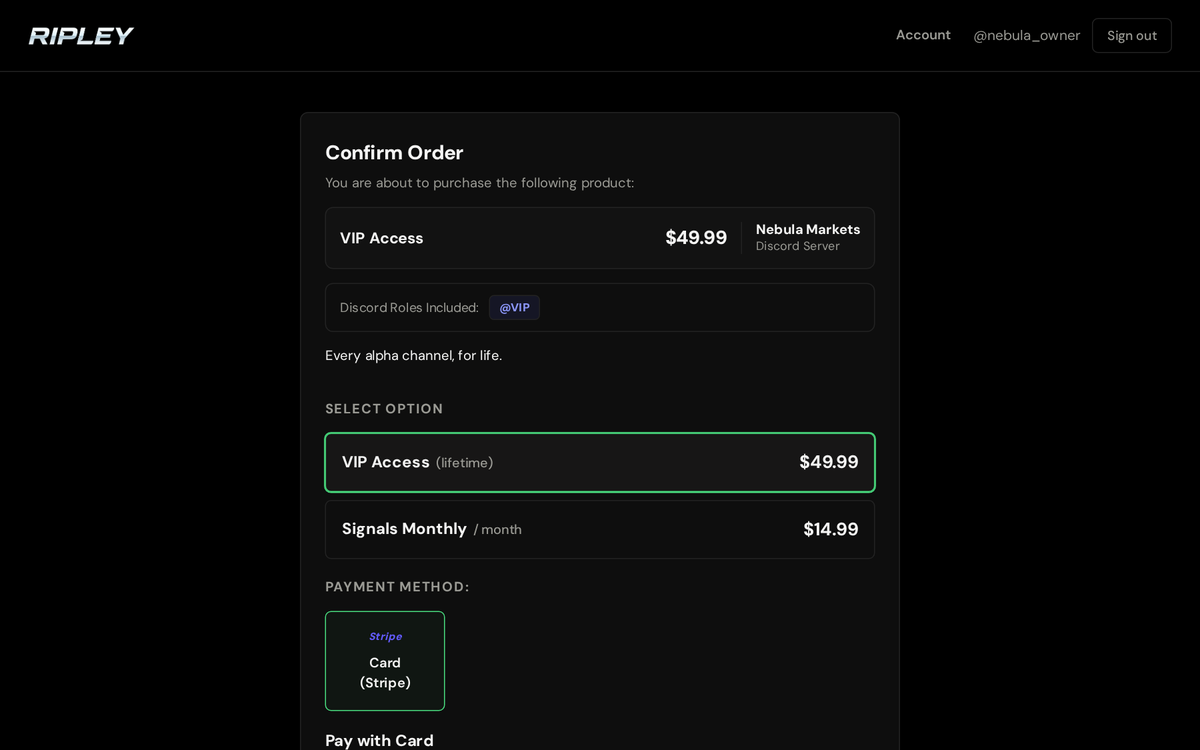
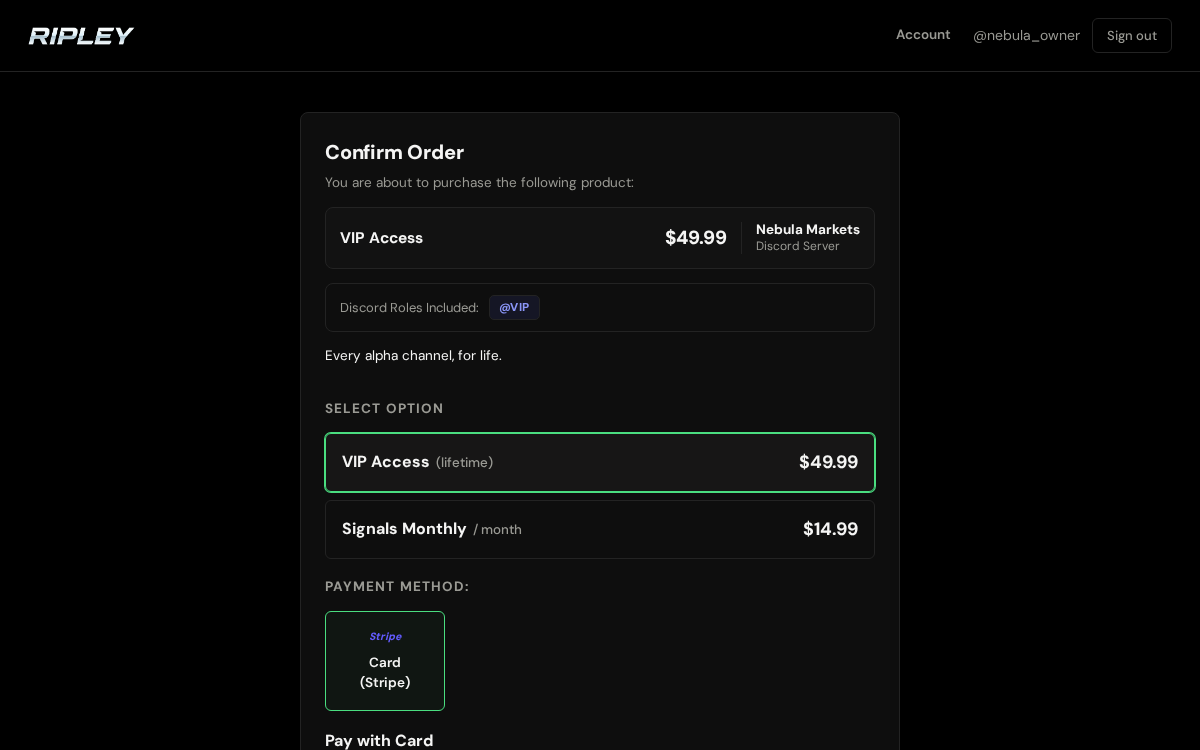
Root store links, membership-activated email, fresh feature screenshots
Store links now live at the domain root — ripleybot.com/<slug> — via a
catch-all rewrite (legacy /s/ paths keep working). Platform paths are
reserved so no store can claim them; onboarding and the dashboard block
them and every generated checkout/store link uses the root form.

The Resend confirmation is redesigned as a clean activation notice:
'Your <server> membership is active' with a green check header, details
table and a flat Manage Membership button.

Homepage feature screenshots retaken from the current UI (old captures
showed the removed Avg Order stat), shot imgs cache-busted, all assets
bumped to v=19.

Claude-Session: https://claude.ai/code/session_01Vxwz97AdnQQxpbAGeSFrmV

diff --git a/discord-paygate/src/lib/email.js b/discord-paygate/src/lib/email.js
@@ -18,7 +18,7 @@ export async function receiptFrom() {
   return (
     process.env.RECEIPT_FROM ||
     (await getAppSecret('receipt_from').catch(() => null)) ||
-    'Ripley Receipts <onboarding@resend.dev>'
+    'Ripley <onboarding@resend.dev>'
   );
 }
 
@@ -28,33 +28,41 @@ export function receiptHtml({ storeName, planName, amountUsd, lifetime, discordU
   const amount = `$${Number(amountUsd).toFixed(2)} USD`;
   const row = (k, v) => `
     <tr>
-      <td style="padding:8px 0;color:#8a8f98;font-size:13px;">${esc(k)}</td>
-      <td style="padding:8px 0;color:#0b0b0c;font-size:13px;font-weight:600;text-align:right;">${esc(v)}</td>
+      <td style="padding:9px 0;color:#8a8f98;font-size:13px;border-bottom:1px solid #eef0f3;">${esc(k)}</td>
+      <td style="padding:9px 0;color:#0b0b0c;font-size:13px;font-weight:600;text-align:right;border-bottom:1px solid #eef0f3;">${esc(v)}</td>
     </tr>`;
   return `
-  <div style="background:#f4f5f7;padding:32px 16px;font-family:-apple-system,'Segoe UI',Roboto,Helvetica,Arial,sans-serif;">
-    <div style="max-width:460px;margin:0 auto;background:#ffffff;border-radius:14px;padding:28px;border:1px solid #e6e8ec;">
-      <p style="margin:0 0 4px;font-size:12px;letter-spacing:0.14em;text-transform:uppercase;color:#8a8f98;font-weight:700;">Receipt</p>
-      <h1 style="margin:0 0 18px;font-size:20px;color:#0b0b0c;">${esc(storeName)}</h1>
-      <p style="margin:0 0 18px;font-size:14px;color:#3f4450;line-height:1.6;">
-        Thanks for your purchase — your access has been delivered to
-        <strong>@${esc(discordUsername ?? 'your Discord account')}</strong>.
+  <div style="background:#f4f5f7;padding:36px 16px;font-family:-apple-system,'Segoe UI',Roboto,Helvetica,Arial,sans-serif;">
+    <div style="max-width:460px;margin:0 auto;background:#ffffff;border-radius:8px;padding:32px;border:1px solid #e6e8ec;">
+      <table role="presentation" style="border-collapse:collapse;margin:0 0 14px;"><tr>
+        <td style="width:34px;height:34px;background:#e9f9ef;border:1px solid #bfeccd;border-radius:6px;text-align:center;vertical-align:middle;color:#16a34a;font-size:17px;font-weight:700;line-height:34px;">&#10003;</td>
+        <td style="padding-left:12px;">
+          <span style="display:block;font-size:11px;letter-spacing:0.12em;text-transform:uppercase;color:#16a34a;font-weight:800;">Membership Activated</span>
+        </td>
+      </tr></table>
+      <h1 style="margin:0 0 10px;font-size:21px;line-height:1.3;color:#0b0b0c;">Your ${esc(storeName)} membership is active</h1>
+      <p style="margin:0 0 20px;font-size:14px;color:#3f4450;line-height:1.65;">
+        <strong>${esc(planName)}</strong> is live on
+        <strong>@${esc(discordUsername ?? 'your Discord account')}</strong> — your roles have been
+        delivered and every members-only channel is now open to you.
       </p>
-      <table style="width:100%;border-collapse:collapse;border-top:1px solid #e6e8ec;">
-        ${row('Product', planName)}
-        ${row('Access', lifetime ? 'Lifetime — never expires' : 'Subscription')}
-        ${row('Amount', amount)}
+      <table style="width:100%;border-collapse:collapse;border-top:1px solid #eef0f3;">
+        ${row('Server', storeName)}
+        ${row('Membership', planName)}
+        ${row('Access', lifetime ? 'Lifetime — never expires' : 'Renews monthly')}
+        ${row('Amount paid', amount)}
         ${row('Date', dateIso)}
         ${row('Reference', reference)}
       </table>
-      <div style="border-top:1px solid #e6e8ec;margin-top:6px;padding-top:16px;">
+      <div style="margin-top:20px;">
         <a href="${esc(config.publicBaseUrl)}/account"
-           style="display:inline-block;background:#0b0b0c;color:#ffffff;text-decoration:none;font-size:13px;font-weight:600;padding:10px 18px;border-radius:999px;">
-          Manage your access
+           style="display:inline-block;background:#0b0b0c;color:#ffffff;text-decoration:none;font-size:13px;font-weight:600;padding:11px 20px;border-radius:6px;">
+          Manage Membership
         </a>
       </div>
-      <p style="margin:18px 0 0;font-size:11.5px;color:#8a8f98;">
+      <p style="margin:20px 0 0;font-size:11.5px;color:#8a8f98;line-height:1.6;">
         Payment processed by Stripe. Sent by Ripley on behalf of ${esc(storeName)}.
+        If anything looks wrong, reply to this email.
       </p>
     </div>
   </div>`;
@@ -72,7 +80,7 @@ export async function sendReceiptEmail({ to, storeName, planName, amountUsd, lif
       body: JSON.stringify({
         from: await receiptFrom(),
         to: [to],
-        subject: `Your ${storeName} receipt — ${planName}`,
+        subject: `Your ${storeName} membership is active`,
         html: receiptHtml({
           storeName,
           planName,

diff --git a/discord-paygate/scripts/e2e-test.js b/discord-paygate/scripts/e2e-test.js
@@ -647,9 +647,13 @@ test('storefront serves the tenant-generic checkout, plans API exposes capabilit
     'an animated guild icon must surface as the .gif CDN url',
   );
   assert.equal(server.name, 'Tradeleaks', 'server name must come from the live guild lookup, never a placeholder');
-  // The internal diagnostics page is gone — tenants never see platform plumbing.
+  // The internal diagnostics page is gone — tenants never see platform
+  // plumbing. Its old path now falls through to the storefront shell like any
+  // other unclaimed slug ('diagnostics' is reserved, so no store can claim it).
   const diagPage = await fetch(`${appUrl}/diagnostics`);
-  assert.equal(diagPage.status, 404, 'the diagnostics page must not exist on the tenant-facing site');
+  const diagBody = await diagPage.text();
+  assert.doesNotMatch(diagBody, /Setup diagnostics/, 'the diagnostics tool must be gone');
+  assert.match(diagBody, /Confirm Order/, 'unclaimed slugs serve the storefront shell');
   assert.deepEqual(Object.keys(plans[0]).sort(), ['description', 'descriptionHighlight', 'id', 'imageUrl', 'interval', 'lifetime', 'name', 'priceUsd', 'roleNames']);
 });
 
@@ -1529,7 +1533,10 @@ test('multi-tenant: a second owner onboards their server end-to-end and sells th
   assert.equal(live.status, 200);
   assert.equal((await live.json()).store.status, 'live');
 
-  // The slug storefront serves, and its plans API shows the tenant catalog.
+  // The slug storefront serves at the root (and the legacy /s/ path), and its
+  // plans API shows the tenant catalog.
+  assert.equal((await fetch(`${appUrl}/vip-signals`)).status, 200);
+  assert.match(await (await fetch(`${appUrl}/vip-signals`)).text(), /Confirm Order/, 'root slug serves the storefront');
   assert.equal((await fetch(`${appUrl}/s/vip-signals`)).status, 200);
   const tenantPlans = await (await fetch(`${appUrl}/api/plans?store=vip-signals`)).json();
   assert.equal(tenantPlans.server.guildId, G2);
@@ -1548,7 +1555,7 @@ test('multi-tenant: a second owner onboards their server end-to-end and sells th
     redirect: 'manual',
     headers: { cookie: sc8 },
   });
-  assert.equal(cb8.headers.get('location'), `/s/vip-signals?plan=${plan.planKey}`, 'buyer lands back on the tenant store');
+  assert.equal(cb8.headers.get('location'), `/vip-signals?plan=${plan.planKey}`, 'buyer lands back on the tenant store');
   const u8Cookie = cb8.headers.getSetCookie().find((c) => c.startsWith('tl_session=')).split(';')[0];
 
   const co = await fetch(`${appUrl}/api/checkout/stripe`, {
@@ -1833,7 +1840,7 @@ test('products managed in-site: edit/toggle/limit/success-url/lazy price/discoun
   assert.equal(list0.products.length, 1);
   const vip = list0.products[0];
   assert.ok(vip.buyers >= 10, `buyers counted (got ${vip.buyers})`);
-  assert.match(vip.checkoutUrl, /\/s\/vip-signals\?plan=/);
+  assert.match(vip.checkoutUrl, /\.e2e\/vip-signals\?plan=/, 'checkout links use the root store URL');
 
   // Deactivate → hidden from buyers and refused at checkout; reactivate heals.
   assert.equal((await onboard({ step: 'product-update', storeId, planKey: vip.planKey, active: false })).status, 200);
@@ -1917,7 +1924,11 @@ test('products managed in-site: edit/toggle/limit/success-url/lazy price/discoun
   const pub = await (await fetch(`${appUrl}/api/plans?store=vip-signals`)).json();
   assert.equal(pub.brand, 'VIP Signals Pro');
   assert.equal(pub.store.description, 'The alpha desk.');
-  // Custom link: new slug serves, the old one 404s, then restore.
+  // Custom link: platform paths can never be claimed as store links.
+  for (const bad of ['dashboard', 'api', 'store', 'diagnostics']) {
+    assert.equal((await storeCall({ slug: bad })).status, 409, `reserved slug "${bad}" must be refused`);
+  }
+  // New slug serves, the old one 404s, then restore.
   assert.equal((await storeCall({ slug: 'vip-elite' })).status, 200);
   assert.equal((await fetch(`${appUrl}/api/plans?store=vip-elite`)).status, 200);
   assert.equal((await fetch(`${appUrl}/api/plans?store=vip-signals`)).status, 404);

diff --git a/discord-paygate/public/index.html b/discord-paygate/public/index.html
@@ -16,7 +16,7 @@
   <meta name="twitter:image" content="https://ripleybot.com/shot-dashboard.png" />
   <link rel="icon" type="image/png" href="/favicon.png" />
   <link rel="apple-touch-icon" href="/favicon.png" />
-  <link rel="stylesheet" href="/styles.css?v=18" />
+  <link rel="stylesheet" href="/styles.css?v=19" />
 </head>
 <body class="home">
   <header class="top xoe-nav">
@@ -61,7 +61,7 @@
              browser with no codec negotiation, autoplay policy, range requests
              or JS in the way. home.js swaps in the real <video> only after the
              browser has proven it can actually play it. -->
-        <img class="hero-video" id="hero-media" src="/hero-demo.webp?v=18" width="1280" height="800"
+        <img class="hero-video" id="hero-media" src="/hero-demo.webp?v=19" width="1280" height="800"
           alt="Ripley product tour: live analytics with period comparison, products, members and the checkout" />
       </div>
     </section>
@@ -156,7 +156,7 @@
         </div>
         <div class="frow-visual">
           <div class="glow glow-side" aria-hidden="true"></div>
-          <div class="shot-frame"><img src="/shot-store.png" alt="A Ripley storefront with product, price and card checkout" width="1200" height="750" loading="lazy" /></div>
+          <div class="shot-frame"><img src="/shot-store.png?v=19" alt="A Ripley storefront with product, price and card checkout" width="1200" height="750" loading="lazy" /></div>
         </div>
       </div>
     </section>
@@ -196,7 +196,7 @@
         </div>
         <div class="frow-visual">
           <div class="glow glow-side" aria-hidden="true"></div>
-          <div class="shot-frame"><img src="/shot-members.png" alt="Member management: revoke, add and re-sync members" width="1400" height="817" loading="lazy" /></div>
+          <div class="shot-frame"><img src="/shot-members.png?v=19" alt="Member management: revoke, add and re-sync members" width="1400" height="817" loading="lazy" /></div>
         </div>
       </div>
     </section>
@@ -381,6 +381,6 @@
     <p class="footer-disclaimer">Not affiliated with Discord Inc. Payments are processed by Stripe on each store owner’s own account.</p>
   </footer>
 
-  <script src="/home.js?v=18"></script>
+  <script src="/home.js?v=19"></script>
 </body>
 </html>

diff --git a/discord-paygate/public/dashboard.js b/discord-paygate/public/dashboard.js
@@ -421,7 +421,7 @@ function renderSetupStep(g, step) {
 }
 
 function renderLive(g, slug) {
-  const link = `${location.origin}/s/${slug}`;
+  const link = `${location.origin}/${slug}`;
   wizShell(g, 4, `
     <div class="wiz-done">
       <span class="done-ring">${I.check}</span>
@@ -1037,7 +1037,7 @@ function sectionStore(store, link) {
       body: `
         ${linkRow}
         <label class="field"><span class="field-label">Custom link</span>
-          <div class="slug-row"><span class="slug-prefix">${esc(location.origin)}/s/</span><input id="st-slug" type="text" maxlength="40" value="${esc(store.slug)}" spellcheck="false" /></div>
+          <div class="slug-row"><span class="slug-prefix">${esc(location.origin)}/</span><input id="st-slug" type="text" maxlength="40" value="${esc(store.slug)}" spellcheck="false" /></div>
           <span class="field-help">Changing the link breaks the old one immediately.</span></label>
         <p class="field-err" id="err-slug" role="alert"></p>`,
       foot: `<button class="btn-secondary" id="st-slug-save">Update link</button>`,
@@ -1108,7 +1108,7 @@ async function viewStore(slug) {
     return;
   }
   const store = data.stores.find((s) => s.slug === slug) ?? data.stores[0];
-  const link = store.isDefault ? `${location.origin}/store` : `${location.origin}/s/${store.slug}`;
+  const link = store.isDefault ? `${location.origin}/store` : `${location.origin}/${store.slug}`;
   const section = location.hash.split('/')[3] ?? 'overview';
   const isPlatformOwner = Boolean(state.me?.isOwner);
 
@@ -1629,7 +1629,7 @@ function wireStoreSettings(store, slug) {
     const slugNew = $('#st-slug').value.trim().toLowerCase();
     fieldErr('slug', '');
     if (slugNew === store.slug) return;
-    if (!confirm(`Change your store link to ${location.origin}/s/${slugNew}?\n\nThe old link stops working immediately.`)) return;
+    if (!confirm(`Change your store link to ${location.origin}/${slugNew}?\n\nThe old link stops working immediately.`)) return;
     btn.disabled = true;
     btn.textContent = 'Updating…';
     try {

diff --git a/discord-paygate/api/onboard.js b/discord-paygate/api/onboard.js
@@ -6,7 +6,7 @@ import { sealSecret } from '../src/lib/secretbox.js';
 import { getUser } from '../src/db.js';
 import { getUserGuilds, getGuild, getGuildRoles, getBotUser, getGuildMember } from '../src/lib/discord.js';
 import { stripeFetch, createWebhookEndpoint, canonicalWebhookUrl, invalidatePriceCache } from '../src/lib/stripe.js';
-import { storeByGuild, storeBySlug, slugify, plansOf } from '../src/services/stores.js';
+import { storeByGuild, storeBySlug, slugify, isReservedSlug, plansOf } from '../src/services/stores.js';
 
 const ADMINISTRATOR = 1n << 3n;
 const MANAGE_GUILD = 1n << 5n;
@@ -90,7 +90,7 @@ export default guard(async function handler(req, res) {
       }
 
       let slug = slugify(name);
-      if (slug === 'store' || (await db.getStoreBySlug(slug))) {
+      if (isReservedSlug(slug) || (await db.getStoreBySlug(slug))) {
         slug = `${slug}-${guildId.slice(-4)}`;
         if (await db.getStoreBySlug(slug)) return sendJson(res, 409, { error: 'Try a different store name.' });
       }
@@ -247,7 +247,7 @@ export default guard(async function handler(req, res) {
       const plans = await db.storePlansFor(row.id);
       const out = [];
       for (const p of plans) {
-        out.push({ ...p, buyers: await db.countBuyersOfPlan(row.id, p.planKey), checkoutUrl: `${config.publicBaseUrl}/s/${row.slug}?plan=${encodeURIComponent(p.planKey)}` });
+        out.push({ ...p, buyers: await db.countBuyersOfPlan(row.id, p.planKey), checkoutUrl: `${config.publicBaseUrl}/${row.slug}?plan=${encodeURIComponent(p.planKey)}` });
       }
       return sendJson(res, 200, { products: out, storeSlug: row.slug });
     }

diff --git a/discord-paygate/api/admin/store.js b/discord-paygate/api/admin/store.js
@@ -2,7 +2,7 @@ import { sendJson, sendText, readJsonBody, guard } from '../../src/lib/http.js';
 import { ownerAuthorized } from '../../src/lib/authz.js';
 import { sessionUserId } from '../../src/lib/session.js';
 import * as db from '../../src/db.js';
-import { storeBySlug } from '../../src/services/stores.js';
+import { storeBySlug, isReservedSlug } from '../../src/services/stores.js';
 import { sealSecret } from '../../src/lib/secretbox.js';
 import { stripeFetch } from '../../src/lib/stripe.js';
 
@@ -60,7 +60,7 @@ export default guard(async function handler(req, res) {
       return sendJson(res, 400, { error: 'Links are 2–40 lowercase letters, numbers and dashes.' });
     }
     if (slug !== store.slug) {
-      if (slug === 'store' || (await db.getStoreBySlug(slug))) {
+      if (isReservedSlug(slug) || (await db.getStoreBySlug(slug))) {
         return sendJson(res, 409, { error: 'That link is taken — pick another.' });
       }
       fields.slug = slug;

diff --git a/discord-paygate/public/app.js b/discord-paygate/public/app.js
@@ -1,6 +1,12 @@
 const $ = (sel) => document.querySelector(sel);
-// Which store this page shows: /s/<slug> → that store, /store → the default.
-const STORE_SLUG = (location.pathname.match(/^\/s\/([a-z0-9-]+)$/) ?? [])[1] ?? '';
+// Which store this page shows: /<slug> (or legacy /s/<slug>) → that store,
+// /store → the default. This file only ever runs on store.html, so any other
+// single-segment path IS a store slug.
+const STORE_SLUG =
+  (location.pathname.match(/^\/s\/([a-z0-9-]+)$/) ?? [])[1] ??
+  ((location.pathname.match(/^\/([a-z0-9-]+)$/) ?? [])[1] === 'store'
+    ? ''
+    : ((location.pathname.match(/^\/([a-z0-9-]+)$/) ?? [])[1] ?? ''));
 const storeQS = STORE_SLUG ? `?store=${encodeURIComponent(STORE_SLUG)}` : '';
 const loginStoreQ = STORE_SLUG ? `&store=${encodeURIComponent(STORE_SLUG)}` : '';
 

diff --git a/discord-paygate/scripts/dev-server.js b/discord-paygate/scripts/dev-server.js
@@ -137,8 +137,18 @@ const server = http.createServer(async (req, res) => {
       return;
     }
     if (req.method === 'GET' && /^\/[a-zA-Z0-9._-]+$/.test(url.pathname)) {
-      serveStatic(res, url.pathname.slice(1));
-      return;
+      const file = url.pathname.slice(1);
+      const resolved = path.join(PUBLIC_DIR, file);
+      if (resolved.startsWith(PUBLIC_DIR) && fs.existsSync(resolved) && fs.statSync(resolved).isFile()) {
+        serveStatic(res, file);
+        return;
+      }
+      // Store links live at the root (vercel.json's /:slug rewrite): any
+      // slug-shaped path with no matching static file is a storefront.
+      if (/^\/[a-z0-9-]+$/.test(url.pathname)) {
+        serveStatic(res, 'store.html');
+        return;
+      }
     }
     sendText(res, 404, 'not found');
   } catch (err) {

diff --git a/discord-paygate/public/home.js b/discord-paygate/public/home.js
@@ -50,7 +50,7 @@ if (menuBtn) {
   const img = $('#hero-media');
   if (!img) return;
   if (window.matchMedia('(prefers-reduced-motion: reduce)').matches) {
-    img.src = '/shot-dashboard.png?v=18'; // hold a still frame instead
+    img.src = '/shot-dashboard.png?v=19'; // hold a still frame instead
     return;
   }
 
@@ -67,8 +67,8 @@ if (menuBtn) {
   v.setAttribute('aria-label', img.alt);
 
   const sources = [
-    ['/hero-demo.mp4?v=18', 'video/mp4; codecs="avc1.640020"'],
-    ['/hero-demo.webm?v=18', 'video/webm; codecs="vp9"'],
+    ['/hero-demo.mp4?v=19', 'video/mp4; codecs="avc1.640020"'],
+    ['/hero-demo.webm?v=19', 'video/webm; codecs="vp9"'],
   ];
   const playable = sources.filter(([, t]) => v.canPlayType(t) !== '');
   if (!playable.length) return; // the animated image simply stays

diff --git a/discord-paygate/src/services/stores.js b/discord-paygate/src/services/stores.js
@@ -117,3 +117,15 @@ export function slugify(name) {
     .slice(0, 40);
   return base || 'server';
 }
+
+// Store links live at the domain root (ripleybot.com/<slug>), so every path
+// the platform itself uses is off-limits as a store name.
+const RESERVED_SLUGS = new Set([
+  'store', 'account', 'dashboard', 'receipt', 'terms', 'privacy', 'diagnostics',
+  'api', 'auth', 'webhooks', 's', 'admin', 'checkout', 'login', 'logout',
+  'pricing', 'docs', 'help', 'support', 'status', 'assets', 'static',
+]);
+
+export function isReservedSlug(slug) {
+  return RESERVED_SLUGS.has(String(slug ?? '').toLowerCase());
+}

diff --git a/discord-paygate/public/store.html b/discord-paygate/public/store.html
@@ -15,7 +15,7 @@
   <meta name="twitter:description" content="Secure checkout for Discord communities — pay once, roles delivered in seconds." />
   <link rel="icon" type="image/png" href="/favicon.png" />
   <link rel="apple-touch-icon" href="/favicon.png" />
-  <link rel="stylesheet" href="/styles.css?v=18" />
+  <link rel="stylesheet" href="/styles.css?v=19" />
 </head>
 <body>
   <header class="top">
@@ -80,6 +80,6 @@
     <img class="powered-mark" src="/ripley.png" alt="Ripley" height="18" />
   </footer>
 
-  <script src="/app.js?v=18"></script>
+  <script src="/app.js?v=19"></script>
 </body>
 </html>

diff --git a/discord-paygate/api/auth/callback.js b/discord-paygate/api/auth/callback.js
@@ -48,7 +48,7 @@ export default guard(async function handler(req, res) {
 
   const plan = /^[a-z0-9_-]{1,64}$/i.test(cookies[PLAN_COOKIE] ?? '') ? cookies[PLAN_COOKIE] : '';
   const storeSlug = /^[a-z0-9-]{1,40}$/.test(cookies[STORE_COOKIE] ?? '') ? cookies[STORE_COOKIE] : '';
-  const base = storeSlug && storeSlug !== 'store' ? `/s/${encodeURIComponent(storeSlug)}` : '/store';
+  const base = storeSlug && storeSlug !== 'store' ? `/${encodeURIComponent(storeSlug)}` : '/store';
   redirect(res, plan ? `${base}?plan=${encodeURIComponent(plan)}` : base, {
     'set-cookie': [
       createSessionCookie(me.id),
